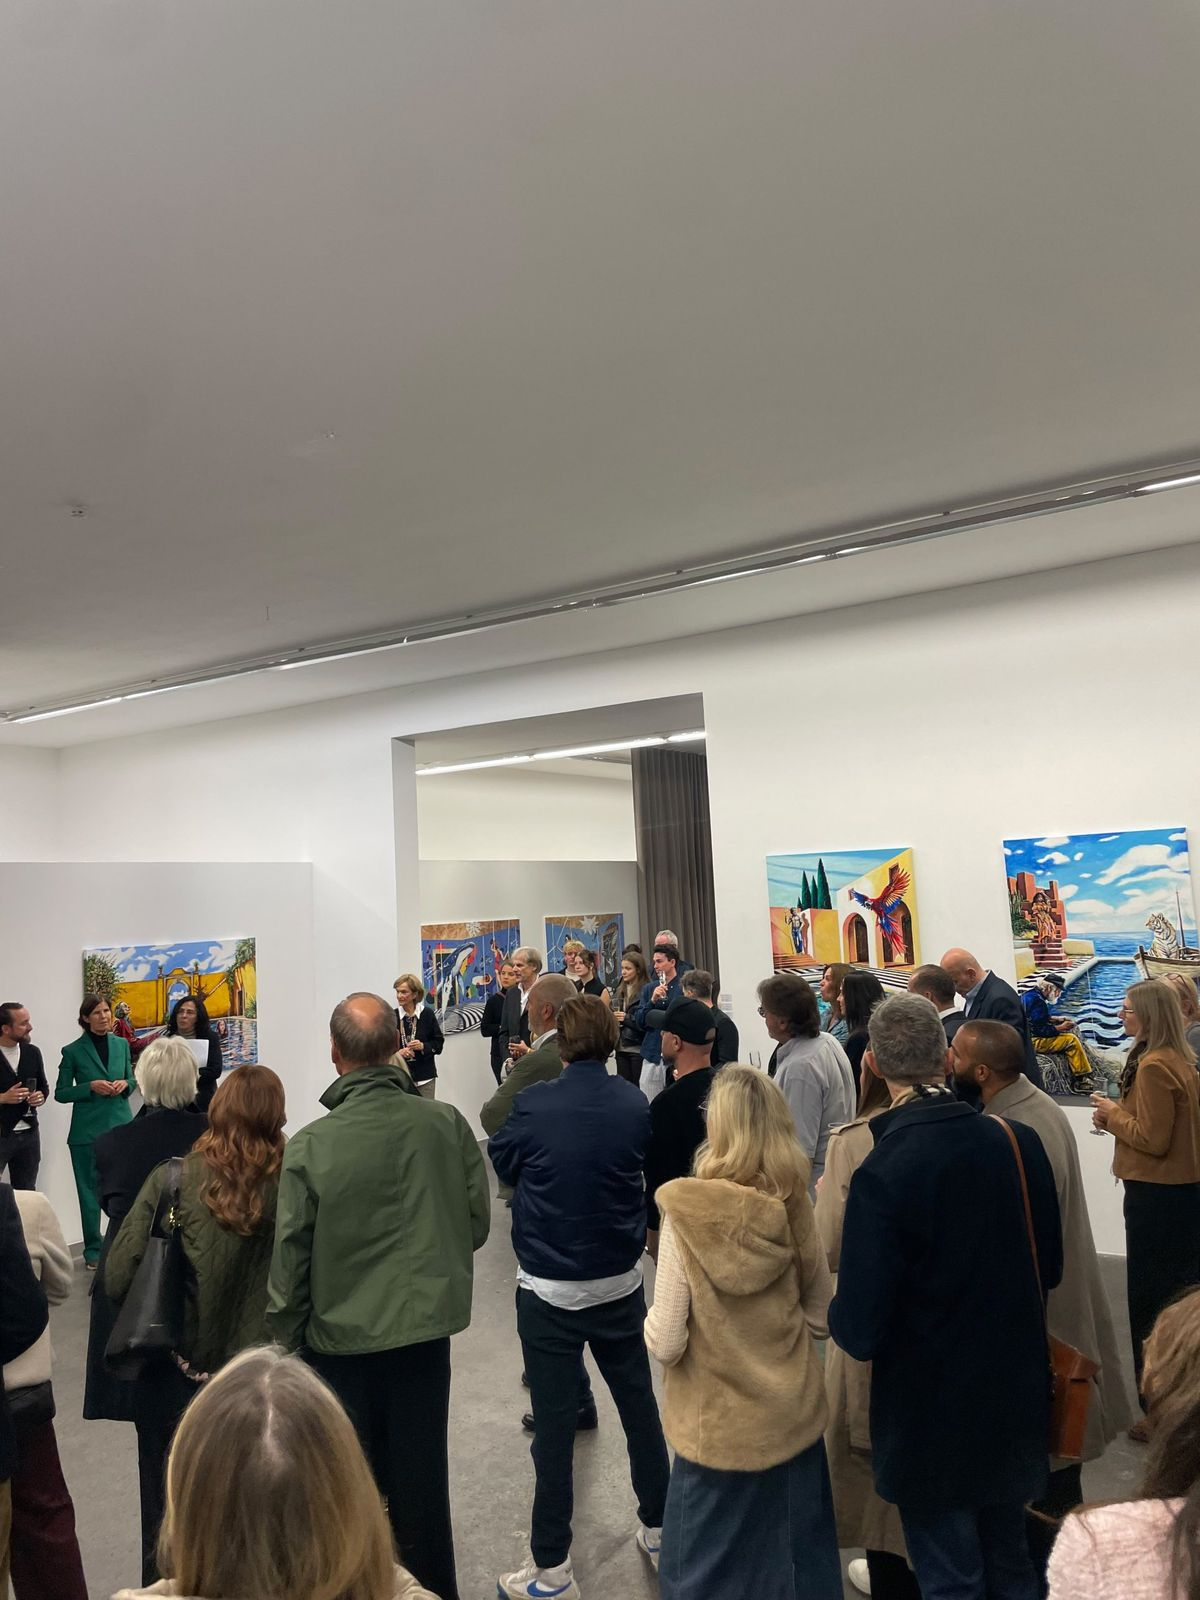
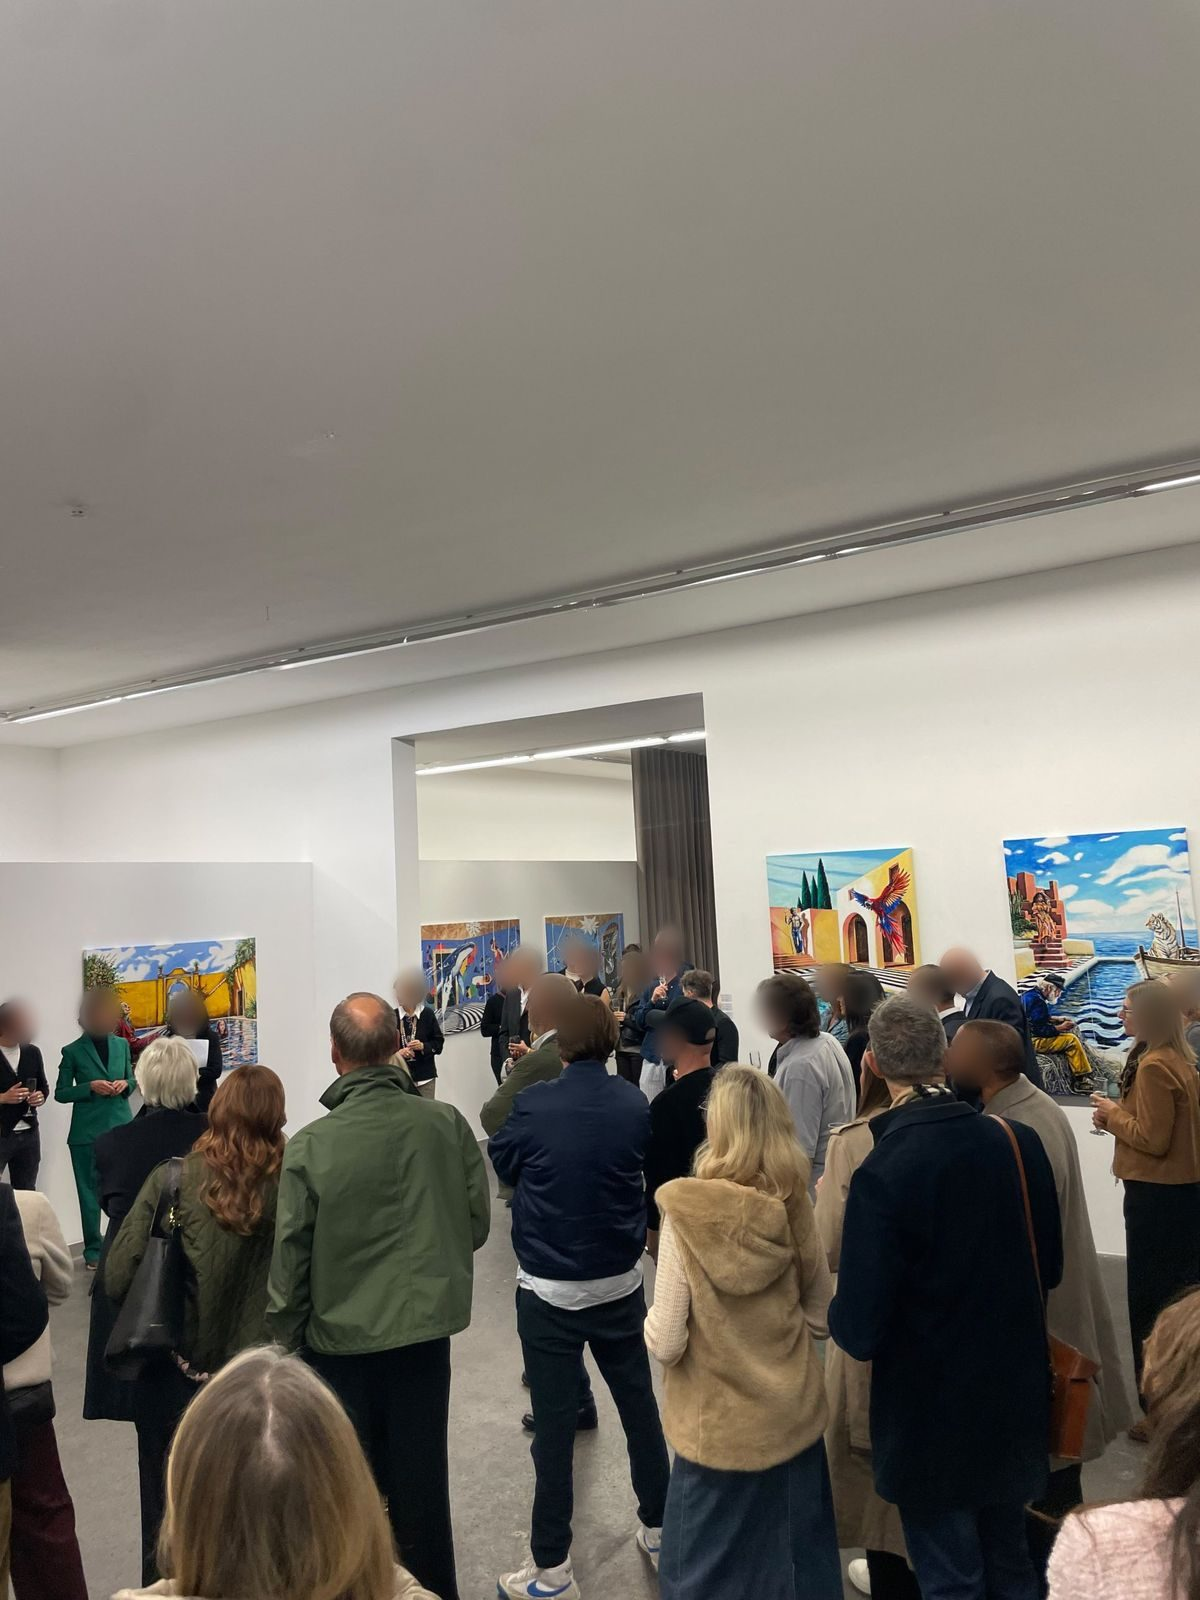
Blur guests' faces in crowd photos (keep Georg Barinov)
Claude-Session: https://claude.ai/code/session_011kthtv8KCr5b9pfbN4ot55

diff --git a/beyond-the-frame.html b/beyond-the-frame.html
@@ -99,8 +99,8 @@
       <button type="button" class="lb-open reveal" data-src="assets/img/exhibitions/beyond-the-frame/btf-09.jpg"><img src="assets/img/exhibitions/beyond-the-frame/btf-09.jpg" alt="Two square paintings with arches and checkerboard floors" loading="lazy" width="1600" height="1200"></button>
       <button type="button" class="lb-open reveal" data-src="assets/img/exhibitions/beyond-the-frame/btf-03.jpg"><img src="assets/img/exhibitions/beyond-the-frame/btf-03.jpg" alt="Portrait paintings in the corner by the window" loading="lazy" width="1200" height="1600"></button>
       <button type="button" class="lb-open reveal" data-src="assets/img/exhibitions/beyond-the-frame/btf-07.jpg"><img src="assets/img/exhibitions/beyond-the-frame/btf-07.jpg" alt="Two musician portraits next to the window" loading="lazy" width="1200" height="1600"></button>
-      <button type="button" class="lb-open reveal" data-src="assets/img/exhibitions/beyond-the-frame/btf-01.jpg"><img src="assets/img/exhibitions/beyond-the-frame/btf-01.jpg" alt="Visitors looking at a painting" loading="lazy" width="1200" height="1600"></button>
-      <button type="button" class="lb-open reveal" data-src="assets/img/exhibitions/beyond-the-frame/btf-12.jpg"><img src="assets/img/exhibitions/beyond-the-frame/btf-12.jpg" alt="Guests at the vernissage" loading="lazy" width="1200" height="1600"></button>
+      <button type="button" class="lb-open reveal" data-src="assets/img/exhibitions/beyond-the-frame/btf-01.jpg?v=2"><img src="assets/img/exhibitions/beyond-the-frame/btf-01.jpg?v=2" alt="Visitors looking at a painting" loading="lazy" width="1200" height="1600"></button>
+      <button type="button" class="lb-open reveal" data-src="assets/img/exhibitions/beyond-the-frame/btf-12.jpg?v=2"><img src="assets/img/exhibitions/beyond-the-frame/btf-12.jpg?v=2" alt="Guests at the vernissage" loading="lazy" width="1200" height="1600"></button>
     </div>
   </div>
 </main>

diff --git a/fake-fake.html b/fake-fake.html
@@ -83,7 +83,7 @@
       <button type="button" class="lb-open reveal" data-src="assets/img/exhibitions/fake-fake/ff-01.jpg"><img src="assets/img/exhibitions/fake-fake/ff-01.jpg" alt="Mountain, leather flag and tyre wall object" loading="lazy" width="1200" height="1600"></button>
       <button type="button" class="lb-open reveal" data-src="assets/img/exhibitions/fake-fake/ff-05.jpg"><img src="assets/img/exhibitions/fake-fake/ff-05.jpg" alt="Relief made of coloured crayons" loading="lazy" width="1203" height="1600"></button>
       <button type="button" class="lb-open reveal" data-src="assets/img/exhibitions/fake-fake/ff-poster-3.jpg"><img src="assets/img/exhibitions/fake-fake/ff-poster-3.jpg" alt="Poster: FAKE FAKE with a yellow wooden object" loading="lazy" width="731" height="1015"></button>
-      <button type="button" class="lb-open reveal" data-src="assets/img/exhibitions/fake-fake/ff-03.jpg"><img src="assets/img/exhibitions/fake-fake/ff-03.jpg" alt="Guests at the opening of FAKE FAKE" loading="lazy" width="1600" height="1200"></button>
+      <button type="button" class="lb-open reveal" data-src="assets/img/exhibitions/fake-fake/ff-03.jpg?v=2"><img src="assets/img/exhibitions/fake-fake/ff-03.jpg?v=2" alt="Guests at the opening of FAKE FAKE" loading="lazy" width="1600" height="1200"></button>
       <button type="button" class="lb-open reveal" data-src="assets/img/exhibitions/fake-fake/ff-poster-4.jpg"><img src="assets/img/exhibitions/fake-fake/ff-poster-4.jpg" alt="Poster: FAKE FAKE with a mosaic star" loading="lazy" width="733" height="1018"></button>
       <button type="button" class="lb-open reveal" data-src="assets/img/exhibitions/fake-fake/ff-06.jpg"><img src="assets/img/exhibitions/fake-fake/ff-06.jpg" alt="Invitation card for the opening on 13 July 2026" loading="lazy" width="1200" height="1600"></button>
     </div>
